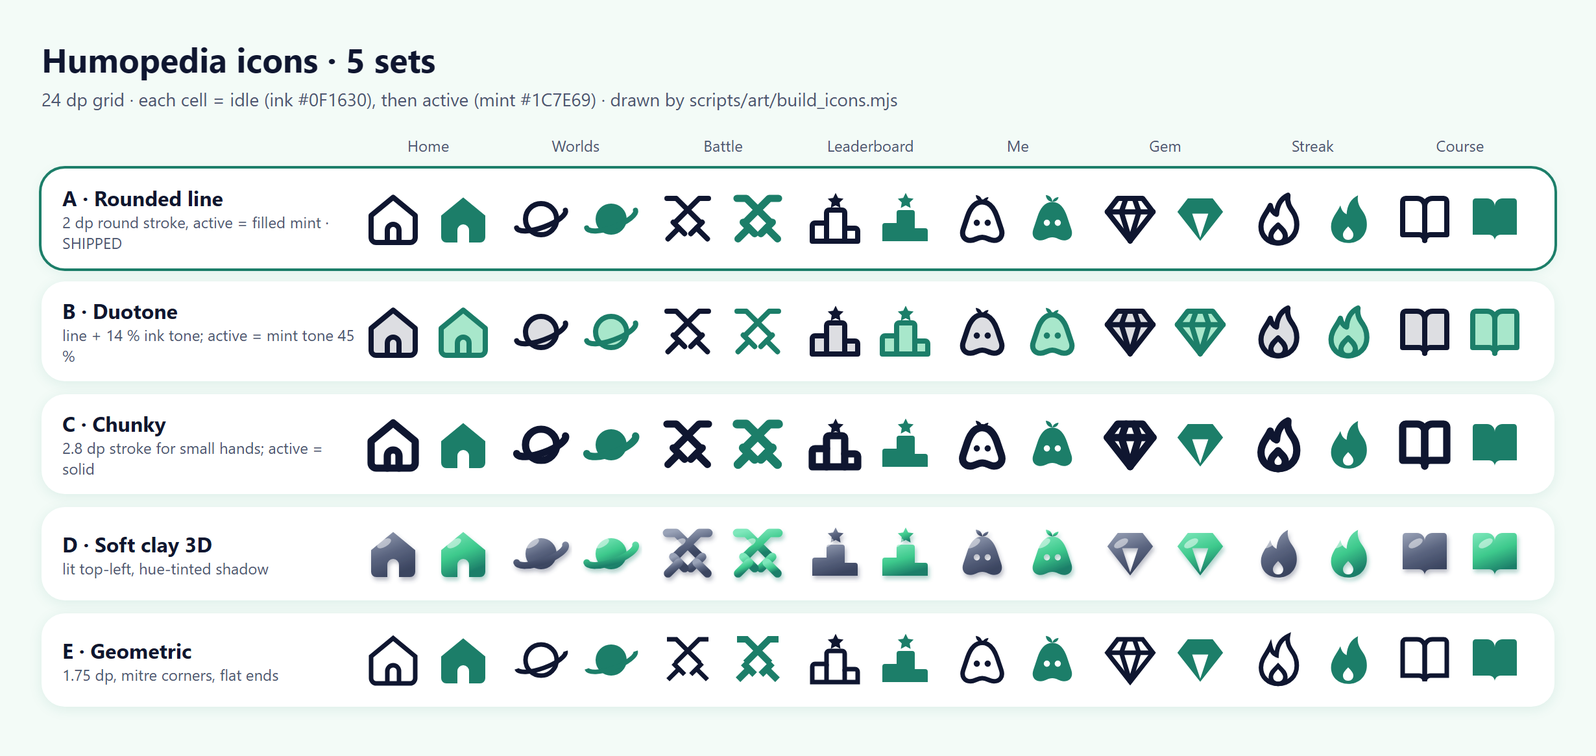
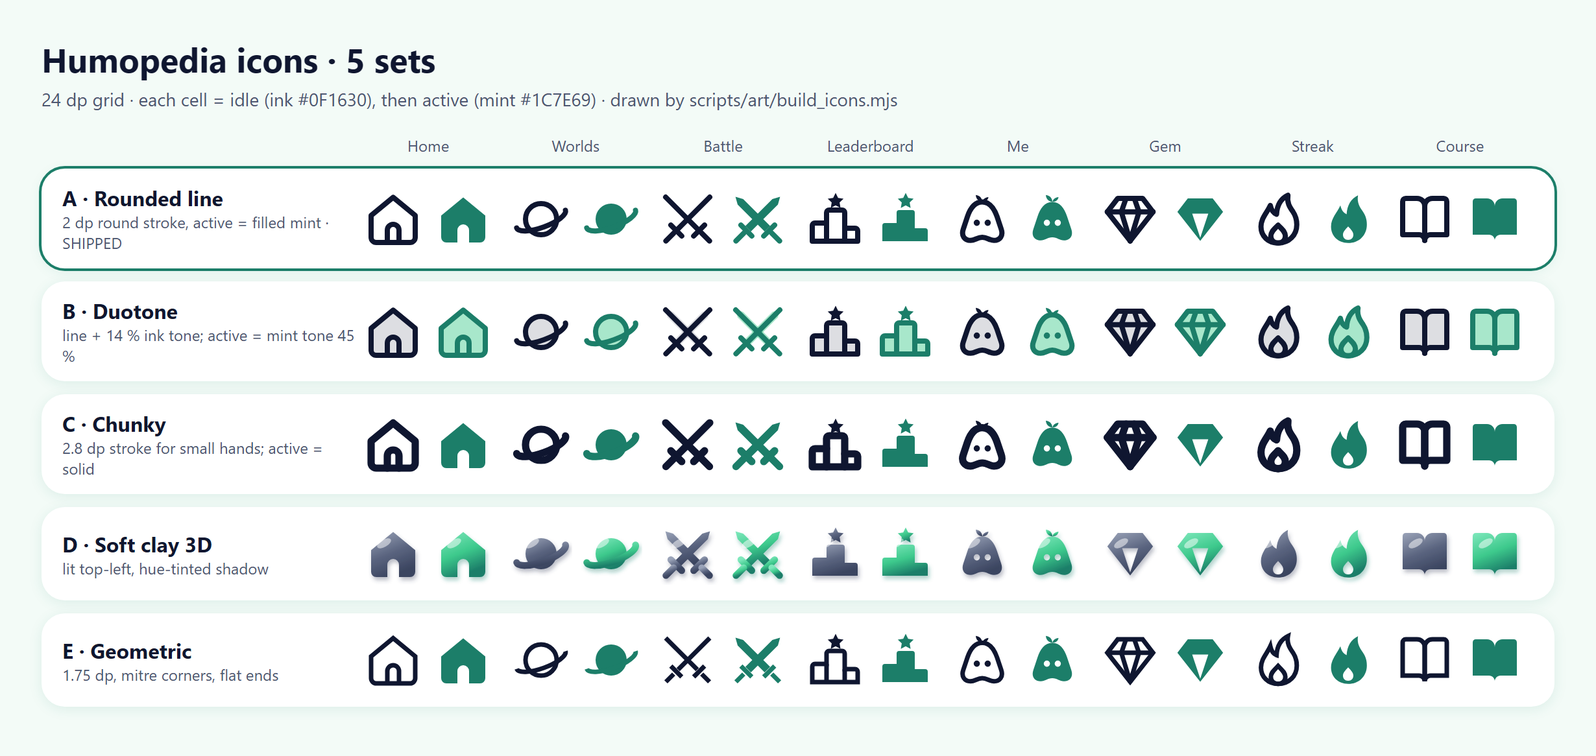
fix(app): path v2 checker round, all 10 fixes (3.0.0-alpha03, code 37)
docs/qa/path-v2-checker.md (6.5/10):
1. Sky leaves the 2,700 dp scrolled box: a screen-sized layer shifted by the scroll.
2. Current island: mint pulse ring (Glass.Primary 55 %, 4 dp) and a 3 dp bob every 2.4 s.
3. Clouds: teal ground shadow, darker underside #B8CCDA, 3 silhouettes, 5-sided faceted puffs.
4. Level sheet veil = deep teal 8 %; the course list has no scrim.
5. The jet's loop is kept on screen and 170 dp off the current stone wherever the child scrolls.
6. Streak icon #D0600E (3.79:1).
7. Battle icon = crossed swords with guards and grips, solid blades when active; board redrawn.
8. Stepping stones darker (#CDB68A on #A88C5E), radius 8.5 dp, 7 dp zig-zag.
9. The path opens with the current stone at 55 % of the space above the tab bar.
10. Launcher Humo 56 dp, lifted 2 dp, inside the 66 dp safe circle (32.9 dp measured); chip "15-kurs".

diff --git a/app/src/main/java/com/mcompany/humo/ui/path/PathScreen.kt b/app/src/main/java/com/mcompany/humo/ui/path/PathScreen.kt
@@ -145,7 +145,7 @@ fun PathScreen(
             val s = state ?: return@LaunchedEffect
             if (placed) return@LaunchedEffect
             snapshotFlow { scroll.maxValue }.first { it > 0 && it != Int.MAX_VALUE }
-            scroll.scrollTo(with(density) { layout.scrollFor(s.current - 1, viewport).dp.roundToPx() })
+            scroll.scrollTo(with(density) { layout.scrollFor(s.current - 1, viewport - padding.calculateBottomPadding().value).dp.roundToPx() })
             placed = true
         }
         Box(Modifier.fillMaxSize().verticalScroll(scroll).semantics { contentDescription = "Path" }) {
@@ -159,16 +159,19 @@ fun PathScreen(
                         }
                     }
                 }
-                Sky(layout, current, scroll, viewport, seconds, motion)
             }
         }
+        // A screen-sized layer (checker fix 1): redrawn every frame, so it must not be the 2,700 dp content box.
+        Sky(layout, current, scroll, viewport, viewport - padding.calculateBottomPadding().value, seconds, motion)
 
         TopBar(state, padding, onCourse = { coursesOpen = !coursesOpen })
 
         val anySheet = sheetLevel != null || coursesOpen
+        // A light deep-teal veil only under the level sheet (8 %, never the grey fog); the course list is a dropdown,
+        // so the world stays clear and only a clear tap-to-close layer sits over it.
         AnimatedVisibility(anySheet, enter = fadeIn(), exit = fadeOut()) {
             Box(
-                Modifier.fillMaxSize().background(Glass.Ink.copy(alpha = 0.16f))
+                Modifier.fillMaxSize().background(if (sheetLevel != null) Color(0xFF0B3D36).copy(alpha = 0.08f) else Color.Transparent)
                     .clickable(remember { MutableInteractionSource() }, null, onClickLabel = "Yopish") { sheetLevel = null; coursesOpen = false },
             )
         }
@@ -280,6 +283,11 @@ private fun Island(level: Level, stone: StoneState, at: Pt, seconds: State<Float
         Modifier
             .offset { with(density) { IntOffset((at.x.dp - w / 2).roundToPx(), (at.y.dp - h * 0.52f).roundToPx()) } }
             .size(w, h)
+            .then(
+                if (stone == StoneState.Current && motion) {
+                    Modifier.graphicsLayer { translationY = sin(seconds.value * 2f * PI.toFloat() / 2.4f) * 3.dp.toPx() }
+                } else Modifier,
+            )
             .pressScale(interaction)
             .clickable(interaction, null, role = Role.Button, onClick = onTap)
             .clearAndSetSemantics { contentDescription = "Level ${level.n}, ${level.title}, $status"; role = Role.Button },
@@ -292,10 +300,10 @@ private fun Island(level: Level, stone: StoneState, at: Pt, seconds: State<Float
                     val p = if (motion) (seconds.value % 1.6f) / 1.6f else 0.35f
                     val rx = size.width * 0.46f * (1f + 0.32f * p)
                     drawOval(
-                        Color.White.copy(alpha = 0.75f * (1f - p)),
+                        Glass.Primary.copy(alpha = 0.55f * (1f - p)),
                         topLeft = Offset(c.x - rx, c.y - rx * 0.55f + size.width * 0.06f),
                         size = androidx.compose.ui.geometry.Size(rx * 2f, rx * 1.1f),
-                        style = Stroke(3.dp.toPx()),
+                        style = Stroke(4.dp.toPx()),
                     )
                 },
             )
@@ -328,7 +336,7 @@ private fun Island(level: Level, stone: StoneState, at: Pt, seconds: State<Float
  * screen; one canvas, redrawn per frame, its cloud shapes built once.
  */
 @Composable
-private fun Sky(layout: PathLayout, current: Int, scroll: ScrollState, viewport: Float, seconds: State<Float>, motion: Boolean) {
+private fun Sky(layout: PathLayout, current: Int, scroll: ScrollState, viewport: Float, visible: Float, seconds: State<Float>, motion: Boolean) {
     val plane = ImageBitmap.imageResource(R.drawable.plane_sr71)
     val clouds = remember(layout, current) { layout.clouds(current) }
     Box(
@@ -336,25 +344,32 @@ private fun Sky(layout: PathLayout, current: Int, scroll: ScrollState, viewport:
             val k = density
             val shapes = clouds.map { LowPoly.cloudShape(it.width * k, it.seed) }
             val shadowTint = ColorFilter.tint(Color(0xFF1F5E57), BlendMode.SrcIn)
+            val cloudShadow = Color(0xFF1F5E57).copy(alpha = 0.10f)
             onDrawBehind {
                 val t = if (motion) seconds.value else 0f
                 val scrollDp = scroll.value / k
-                val fix = layout.plane(current, t)
-                drawPlane(plane, fix, k, shadow = true, tint = shadowTint)
-                clouds.forEachIndexed { i, c ->
-                    // Parallax: a cloud moves a little slower than the ground, by at most 24 dp, so the first row never slides onto the current island.
-                    val lag = ((viewport * 0.5f - (c.at.y - scrollDp)) * (0.06f + 0.04f * c.depth)).coerceIn(-24f, 24f)
-                    val screenY = c.at.y + lag - scrollDp
-                    if (screenY < -120f || screenY > viewport + 120f) return@forEachIndexed
-                    // Parting: a cloud slides away from the middle as it reaches the upper-middle of the screen.
-                    val part = ((viewport * 0.6f - screenY) / (viewport * 0.6f)).coerceIn(0f, 1f)
-                    val away = if (c.at.x < layout.width / 2f) -1f else 1f
-                    val drift = if (motion) sin(t * 2f * PI.toFloat() / (26f + c.seed % 9) + c.seed) * 10f else 0f
-                    val x = (c.at.x + drift + away * 26f * part * part) * k
-                    val y = (c.at.y + lag) * k
-                    translate(x, y) { shapes[i].forEach { (p, col) -> drawPath(p, col) } }
+                val fix = layout.plane(current, t, scrollDp, visible)
+                translate(0f, -scroll.value.toFloat()) {
+                    val planeOnScreen = fix.at.y - scrollDp in 0f..viewport
+                    if (planeOnScreen) drawPlane(plane, fix, k, shadow = true, tint = shadowTint)
+                    clouds.forEachIndexed { i, c ->
+                        // Parallax: a cloud moves a little slower than the ground, by at most 24 dp, so the first row never slides onto the current island.
+                        val lag = ((viewport * 0.5f - (c.at.y - scrollDp)) * (0.06f + 0.04f * c.depth)).coerceIn(-24f, 24f)
+                        val screenY = c.at.y + lag - scrollDp
+                        if (screenY < -160f || screenY > viewport + 120f) return@forEachIndexed
+                        // Parting: a cloud slides away from the middle as it reaches the upper-middle of the screen.
+                        val part = ((viewport * 0.6f - screenY) / (viewport * 0.6f)).coerceIn(0f, 1f)
+                        val away = if (c.at.x < layout.width / 2f) -1f else 1f
+                        val drift = if (motion) sin(t * 2f * PI.toFloat() / (26f + c.seed % 9) + c.seed) * 10f else 0f
+                        val x = (c.at.x + drift + away * 26f * part * part) * k
+                        val y = (c.at.y + lag) * k
+                        // Its shadow on the ground, lower-right (light from the top-left): this is what lifts it off the grass.
+                        val sw = c.width * 0.8f * k
+                        drawOval(cloudShadow, topLeft = Offset(x - sw / 2f + 16f * k, y + 44f * k - sw * 0.09f), size = androidx.compose.ui.geometry.Size(sw, sw * 0.18f))
+                        translate(x, y) { shapes[i].forEach { (p, col) -> drawPath(p, col) } }
+                    }
+                    if (planeOnScreen) drawPlane(plane, fix, k, shadow = false, tint = null)
                 }
-                drawPlane(plane, fix, k, shadow = false, tint = null)
             }
         },
     )
@@ -402,7 +417,7 @@ private fun TopBar(state: PathUiState?, padding: PaddingValues, onCourse: () -> 
             Row(Modifier.padding(start = 14.dp, end = 10.dp).align(Alignment.Center), verticalAlignment = Alignment.CenterVertically) {
                 Icon(TabIcons.CourseFilled, null, tint = Glass.Primary, modifier = Modifier.size(22.dp))
                 Spacer(Modifier.width(8.dp))
-                Text("${course?.number ?: ""}", style = MaterialTheme.typography.titleMedium, fontWeight = FontWeight.Bold, color = Glass.Ink, maxLines = 1)
+                Text(course?.let { "${it.number}-kurs" } ?: "", style = MaterialTheme.typography.titleMedium, fontWeight = FontWeight.Bold, color = Glass.Ink, maxLines = 1)
                 Spacer(Modifier.width(4.dp))
                 Icon(TabIcons.ChevronDown, null, tint = Glass.Ink.copy(alpha = 0.72f), modifier = Modifier.size(18.dp))
             }
@@ -412,7 +427,7 @@ private fun TopBar(state: PathUiState?, padding: PaddingValues, onCourse: () -> 
             Row(Modifier.padding(horizontal = 14.dp).align(Alignment.Center), verticalAlignment = Alignment.CenterVertically) {
                 Count(TabIcons.GemFilled, Color(0xFF1E8FCB), state?.gems ?: 0, "Olmos")
                 Spacer(Modifier.width(16.dp))
-                Count(TabIcons.StreakFilled, Color(0xFFE8711F), state?.streakDays ?: 0, "Ketma-ket kunlar")
+                Count(TabIcons.StreakFilled, Color(0xFFD0600E), state?.streakDays ?: 0, "Ketma-ket kunlar")
             }
         }
     }

diff --git a/app/src/main/java/com/mcompany/humo/ui/glass/TabIcons.kt b/app/src/main/java/com/mcompany/humo/ui/glass/TabIcons.kt
@@ -18,11 +18,11 @@ object TabIcons {
     val Home = icon("home", Stroke("M3.5 10.6 12 3.6l8.5 7v8.4a2 2 0 0 1-2 2h-13a2 2 0 0 1-2-2Z"), Stroke("M9.75 21v-4.75a2.25 2.25 0 0 1 4.5 0V21"))
     val HomeFilled = icon("home-filled", Filled("M3.5 10.6 12 3.6l8.5 7v8.4a2 2 0 0 1-2 2h-13a2 2 0 0 1-2-2Z M9.75 21v-4.75a2.25 2.25 0 0 1 4.5 0V21Z", evenOdd = true))
     val Worlds = icon("worlds", Stroke("M6 12a6 6 0 1 0 12 0a6 6 0 1 0 -12 0"), Stroke("M21.4 8.6A10 3.2-20 0 1 13.1 15A10 3.2-20 0 1 2.6 15.4"))
-    val WorldsFilled = icon("worlds-filled", Filled("M6 12a6 6 0 1 0 12 0a6 6 0 1 0 -12 0", evenOdd = true), Stroke("M21.4 8.6A10 3.2-20 0 1 13.1 15A10 3.2-20 0 1 2.6 15.4"))
-    val Battle = icon("battle", Stroke("M4 4h3.6l9.1 9.1"), Stroke("M20 4h-3.6l-9.1 9.1"), Stroke("M13.2 17.6l4.4-4.4"), Stroke("M10.8 17.6 6.4 13.2"), Stroke("M15.4 15.4 19.6 19.6"), Stroke("M8.6 15.4 4.4 19.6"))
-    val BattleFilled = icon("battle-filled", Stroke("M4 4h3.6l9.1 9.1", width = 2.8f), Stroke("M20 4h-3.6l-9.1 9.1", width = 2.8f), Stroke("M13.2 17.6l4.4-4.4", width = 2.8f), Stroke("M10.8 17.6 6.4 13.2", width = 2.8f), Stroke("M15.4 15.4 19.6 19.6", width = 2.8f), Stroke("M8.6 15.4 4.4 19.6", width = 2.8f))
+    val WorldsFilled = icon("worlds-filled", Filled("M6 12a6 6 0 1 0 12 0a6 6 0 1 0 -12 0", evenOdd = false), Stroke("M21.4 8.6A10 3.2-20 0 1 13.1 15A10 3.2-20 0 1 2.6 15.4"))
+    val Battle = icon("battle", Stroke("M8.3 15.7 20.5 3.5"), Stroke("M15.7 15.7 3.5 3.5"), Stroke("M5.5 14.3l4.2 4.2"), Stroke("M18.5 14.3l-4.2 4.2"), Stroke("M6.6 17.4l-3 3"), Stroke("M17.4 17.4l3 3"))
+    val BattleFilled = icon("battle-filled", Filled("M7.24 14.64 17.64 4.24 20.6 3.4 19.76 6.36 9.36 16.76Z M14.64 16.76 4.24 6.36 3.4 3.4 6.36 4.24 16.76 14.64Z", evenOdd = false), Stroke("M5.5 14.3l4.2 4.2"), Stroke("M18.5 14.3l-4.2 4.2"), Stroke("M6.6 17.4l-3 3"), Stroke("M17.4 17.4l3 3"))
     val Leaderboard = icon("leaderboard", Stroke("M3 20.5v-6a1 1 0 0 1 1-1h4.5v-4a1 1 0 0 1 1-1h5a1 1 0 0 1 1 1v6h4a1 1 0 0 1 1 1v4Z"), Stroke("M8.5 13.5v7"), Stroke("M15.5 15.5v5"), Filled("M12 1.9l.95 1.9 2.1.3-1.52 1.48.36 2.08L12 6.68l-1.88.98.36-2.08L8.95 4.1l2.1-.3Z"))
-    val LeaderboardFilled = icon("leaderboard-filled", Filled("M3 20.5v-6a1 1 0 0 1 1-1h4.5v-4a1 1 0 0 1 1-1h5a1 1 0 0 1 1 1v6h4a1 1 0 0 1 1 1v4Z", evenOdd = true), Filled("M12 1.9l.95 1.9 2.1.3-1.52 1.48.36 2.08L12 6.68l-1.88.98.36-2.08L8.95 4.1l2.1-.3Z"))
+    val LeaderboardFilled = icon("leaderboard-filled", Filled("M3 20.5v-6a1 1 0 0 1 1-1h4.5v-4a1 1 0 0 1 1-1h5a1 1 0 0 1 1 1v6h4a1 1 0 0 1 1 1v4Z", evenOdd = false), Filled("M12 1.9l.95 1.9 2.1.3-1.52 1.48.36 2.08L12 6.68l-1.88.98.36-2.08L8.95 4.1l2.1-.3Z"))
     val Me = icon("me", Stroke("M12 5.4c-3 0-4.6 2.4-5.7 5.6l-1.6 4.8c-.9 2.6.5 4.4 2.8 4.4 1.7 0 2.6-1.2 4.5-1.2s2.8 1.2 4.5 1.2c2.3 0 3.7-1.8 2.8-4.4l-1.6-4.8C16.6 7.8 15 5.4 12 5.4Z"), Filled("M12 5.4c0-1.4-.9-2.5-2.5-2.7.1 1.5 1 2.5 2.5 2.7Z"), Filled("M12 5.4c.3-1.1 1.1-1.8 2.4-1.9-.2 1.1-1 1.8-2.4 1.9Z"), Filled("M8.700000000000001 13.4a1.2 1.2 0 1 0 2.4 0a1.2 1.2 0 1 0 -2.4 0"), Filled("M12.9 13.4a1.2 1.2 0 1 0 2.4 0a1.2 1.2 0 1 0 -2.4 0"))
     val MeFilled = icon("me-filled", Filled("M12 5.4c-3 0-4.6 2.4-5.7 5.6l-1.6 4.8c-.9 2.6.5 4.4 2.8 4.4 1.7 0 2.6-1.2 4.5-1.2s2.8 1.2 4.5 1.2c2.3 0 3.7-1.8 2.8-4.4l-1.6-4.8C16.6 7.8 15 5.4 12 5.4Z M8.700000000000001 13.4a1.2 1.2 0 1 0 2.4 0a1.2 1.2 0 1 0 -2.4 0 M12.9 13.4a1.2 1.2 0 1 0 2.4 0a1.2 1.2 0 1 0 -2.4 0", evenOdd = true), Filled("M12 5.4c0-1.4-.9-2.5-2.5-2.7.1 1.5 1 2.5 2.5 2.7Z"), Filled("M12 5.4c.3-1.1 1.1-1.8 2.4-1.9-.2 1.1-1 1.8-2.4 1.9Z"))
     val Gem = icon("gem", Stroke("M7.2 4h9.6l4 5.2L12 20.4 3.2 9.2Z"), Stroke("M3.2 9.2h17.6"), Stroke("M12 20.4 8.6 9.2 10.4 4"), Stroke("M12 20.4l3.4-11.2L13.6 4"))
@@ -30,7 +30,7 @@ object TabIcons {
     val Streak = icon("streak", Stroke("M12 21.2c-3.9 0-6.6-2.7-6.6-6.3 0-3.3 2.3-5.3 3.6-8.2.4 1.9 1.3 3 2.4 3.4.2-3.5 1.7-6 4.4-7.3-.5 2.8.7 4.6 1.9 6.3 1 1.5 1.5 3 1.5 5C19.2 18.2 16.2 21.2 12 21.2Z"), Stroke("M12 21.2c-1.6 0-2.8-1.1-2.8-2.7 0-1.7 1.3-2.6 2.8-4.2 1.5 1.6 2.8 2.5 2.8 4.2 0 1.6-1.2 2.7-2.8 2.7Z"))
     val StreakFilled = icon("streak-filled", Filled("M12 21.2c-3.9 0-6.6-2.7-6.6-6.3 0-3.3 2.3-5.3 3.6-8.2.4 1.9 1.3 3 2.4 3.4.2-3.5 1.7-6 4.4-7.3-.5 2.8.7 4.6 1.9 6.3 1 1.5 1.5 3 1.5 5C19.2 18.2 16.2 21.2 12 21.2Z M12 20c-1.2 0-2-.8-2-2 0-1.2.9-2 2-3.2 1.1 1.2 2 2 2 3.2 0 1.2-.8 2-2 2Z", evenOdd = true))
     val Course = icon("course", Stroke("M3.5 5.2c0-.7.5-1.2 1.2-1.2H9c1.7 0 3 1.3 3 3v13.2c0-1.2-1-2.2-2.2-2.2H3.5Z"), Stroke("M20.5 5.2c0-.7-.5-1.2-1.2-1.2H15c-1.7 0-3 1.3-3 3v13.2c0-1.2 1-2.2 2.2-2.2h6.3Z"))
-    val CourseFilled = icon("course-filled", Filled("M3.5 5.2c0-.7.5-1.2 1.2-1.2H9c1.7 0 3 1.3 3 3v13.2c0-1.2-1-2.2-2.2-2.2H3.5Z M20.5 5.2c0-.7-.5-1.2-1.2-1.2H15c-1.7 0-3 1.3-3 3v13.2c0-1.2 1-2.2 2.2-2.2h6.3Z", evenOdd = true))
+    val CourseFilled = icon("course-filled", Filled("M3.5 5.2c0-.7.5-1.2 1.2-1.2H9c1.7 0 3 1.3 3 3v13.2c0-1.2-1-2.2-2.2-2.2H3.5Z M20.5 5.2c0-.7-.5-1.2-1.2-1.2H15c-1.7 0-3 1.3-3 3v13.2c0-1.2 1-2.2 2.2-2.2h6.3Z", evenOdd = false))
     val ChevronLeft = icon("chevron-left", Stroke("m15 18-6-6 6-6"))
     val ChevronDown = icon("chevron-down", Stroke("m6 9 6 6 6-6"))
 

diff --git a/app/src/main/java/com/mcompany/humo/ui/path/LowPoly.kt b/app/src/main/java/com/mcompany/humo/ui/path/LowPoly.kt
@@ -113,12 +113,12 @@ internal object LowPoly {
             Offset(c.x + rr * cos(a), c.y + rr * sin(a) * 0.72f)
         }
         val rim = Path().apply { pts.forEachIndexed { i, p -> if (i == 0) moveTo(p.x, p.y + r * 0.28f) else lineTo(p.x, p.y + r * 0.28f) }; close() }
-        drawPath(rim, Color(0xFFBCA57E).copy(alpha = dim))
+        drawPath(rim, Color(0xFFA88C5E).copy(alpha = dim))
         val face = Path().apply { pts.forEachIndexed { i, p -> if (i == 0) moveTo(p.x, p.y) else lineTo(p.x, p.y) }; close() }
-        drawPath(face, Color(0xFFDCCBA4).copy(alpha = dim))
+        drawPath(face, Color(0xFFCDB68A).copy(alpha = dim))
         // The half facing the light, from the top-left.
         val lit = Path().apply { moveTo(pts[2].x, pts[2].y); lineTo(pts[3].x, pts[3].y); lineTo(pts[4].x, pts[4].y); lineTo(pts[5].x, pts[5].y); close() }
-        drawPath(lit, Color(0xFFF6EDD8).copy(alpha = dim))
+        drawPath(lit, Color(0xFFE9DAB6).copy(alpha = dim))
     }
 
     /** A wooden footbridge across the river, along the trail's [angle]: deck planks, two rails. */
@@ -165,31 +165,38 @@ internal object LowPoly {
     }
 
     /**
-     * A low-poly cloud around (0, 0) (CI 40834278210: the first one read as stacked shelves): four rounded puffs, each
-     * one flat polygon with one lit facet on its upper-left, over a short chamfered underside in a cool blue-grey,
-     * narrower than the puffs so no ledge shows. [w] is its width in px; [seed] varies the puffs. Built once; the
-     * screen only moves it.
+     * A low-poly cloud around (0, 0) (checker 2026-10-29: "stickers", not sky): one of three silhouettes (3, 4 or 5
+     * puffs) picked by [seed], each puff a five-sided dome with two lit facets on its upper-left, over a chamfered
+     * blue-grey underside narrower than the puffs. The screen adds its ground shadow. [w] is its width in px.
      */
     fun cloudShape(w: Float, seed: Int): List<Pair<Path, Color>> = buildList {
         val lit = Color(0xFFFFFFFF)
-        val body = Color(0xFFEFF6F9)
-        val shade = Color(0xFFD3E3EC)
+        val soft = Color(0xFFF6FAFC)
+        val body = Color(0xFFE6EFF4)
+        val shade = Color(0xFFB8CCDA)
         add(Path().apply {
             moveTo(-w * 0.44f, -w * 0.02f); lineTo(w * 0.44f, -w * 0.02f); lineTo(w * 0.4f, w * 0.05f)
             lineTo(w * 0.3f, w * 0.085f); lineTo(-w * 0.3f, w * 0.085f); lineTo(-w * 0.4f, w * 0.05f); close()
         } to shade)
-        val puffs = listOf(-0.27f to 0.2f, -0.04f to 0.29f, 0.2f to 0.24f, 0.36f to 0.15f)
+        val puffs = when (seed % 3) {
+            0 -> listOf(-0.24f to 0.24f, 0.06f to 0.32f, 0.32f to 0.2f)
+            1 -> listOf(-0.27f to 0.2f, -0.04f to 0.29f, 0.2f to 0.24f, 0.36f to 0.15f)
+            else -> listOf(-0.36f to 0.14f, -0.18f to 0.22f, 0.04f to 0.3f, 0.24f to 0.22f, 0.4f to 0.13f)
+        }
         puffs.forEachIndexed { k, (dx, r0) ->
             val r = w * r0 * (0.92f + ((seed + k * 5) % 4) * 0.05f)
             val pc = Offset(w * dx, 0f)
-            val n = 7
+            val n = 5
+            // Uneven angles so every dome has its own faceted silhouette.
             val v = (0..n).map { i ->
-                val a = PI.toFloat() + i * PI.toFloat() / n
-                Offset(pc.x + r * cos(a), pc.y + r * 0.9f * sin(a))
+                val a = PI.toFloat() + i * PI.toFloat() / n + if (i in 1 until n) ((seed + k + i) % 3 - 1) * 0.08f else 0f
+                Offset(pc.x + r * cos(a), pc.y + r * 0.95f * sin(a))
             }
             add(Path().apply { moveTo(v[0].x, v[0].y); for (i in 1..n) lineTo(v[i].x, v[i].y); close() } to body)
-            // The facet that faces the light: the upper-left third of the puff.
-            add(Path().apply { moveTo(pc.x - r * 0.12f, pc.y - r * 0.1f); lineTo(v[1].x, v[1].y); lineTo(v[2].x, v[2].y); lineTo(v[3].x, v[3].y); lineTo(v[4].x, v[4].y); close() } to lit)
+            val ridge = Offset(pc.x - r * 0.08f, pc.y - r * 0.18f)
+            // Two facets that face the light (top-left), the brighter one on the left shoulder.
+            add(Path().apply { moveTo(ridge.x, ridge.y); lineTo(v[0].x, v[0].y); lineTo(v[1].x, v[1].y); lineTo(v[2].x, v[2].y); close() } to lit)
+            add(Path().apply { moveTo(ridge.x, ridge.y); lineTo(v[2].x, v[2].y); lineTo(v[3].x, v[3].y); close() } to soft)
         }
     }
 }

diff --git a/app/src/main/java/com/mcompany/humo/ui/path/PathLayout.kt b/app/src/main/java/com/mcompany/humo/ui/path/PathLayout.kt
@@ -61,7 +61,7 @@ class PathLayout(val count: Int, val width: Float) {
     fun stone(i: Int) = Pt(x(i), y(i))
 
     /**
-     * The scroll offset that puts stone [i] at thumb height: 62 % down a [viewport]-tall screen, the easy reach of a
+     * The scroll offset that puts stone [i] at thumb height: 55 % down the [viewport] above the tab bar, the easy reach of a
      * one-handed grip.
      */
     fun scrollFor(i: Int, viewport: Float): Float = (y(i) - viewport * THUMB).coerceIn(0f, (height - viewport).coerceAtLeast(0f))
@@ -101,11 +101,11 @@ class PathLayout(val count: Int, val width: Float) {
                     val dx = p.x - prev.x; val dy = p.y - prev.y
                     val len = hypot(dx, dy).coerceAtLeast(0.001f)
                     val nx = -dy / len; val ny = dx / len
-                    val side = if (seed % 2 == 0) 5.5f else -5.5f
+                    val side = if (seed % 2 == 0) 7f else -7f
                     val at = Pt(p.x + nx * side, p.y + ny * side)
                     val clearOfIsland = (0 until count).none { at.dist(stone(it)) < ISLAND_CLEAR }
                     val clearOfBridge = bridges.none { at.dist(it.at) < BRIDGE_CLEAR }
-                    if (clearOfIsland && clearOfBridge) add(Flagstone(at, 6.5f + (seed * 7 % 5) * 0.5f, seed))
+                    if (clearOfIsland && clearOfBridge) add(Flagstone(at, 8.5f + (seed * 7 % 5) * 0.5f, seed))
                     seed++
                 }
                 prev = p
@@ -199,9 +199,17 @@ class PathLayout(val count: Int, val width: Float) {
      * The SR-71's lazy figure-eight over the clouds, above the current stone (never over the stone the child is about
      * to tap). One loop every [LOOP_S] seconds; heading and bank come from the curve itself.
      */
-    fun plane(current: Int, seconds: Float): PlaneFix {
+    fun plane(current: Int, seconds: Float, scrollDp: Float? = null, viewport: Float? = null): PlaneFix {
         val c = (current - 1).coerceIn(0, count - 1)
-        val cy = if (c >= count - 2) y(c) + gap * 1.55f else y(c) - gap * 1.6f
+        val home = if (c >= count - 2) y(c) + gap * 1.55f else y(c) - gap * 1.6f
+        // Kept on screen (checker fix 5): between the top bar and 170 dp above thumb height, where the current stone opens.
+        val cy = if (scrollDp == null || viewport == null) home else {
+            val lo = scrollDp + 110f
+            val hi = scrollDp + viewport * THUMB - 170f
+            val kept = if (hi >= lo) home.coerceIn(lo, hi) else lo
+            // Never over the stone the child is about to tap, wherever they have scrolled it.
+            if (abs(kept - y(c)) >= 170f) kept else if (y(c) - 170f >= scrollDp + 60f) y(c) - 170f else y(c) + 170f
+        }
         val cx = width / 2f
         val rx = width * 0.3f
         val ry = 54f
@@ -218,7 +226,7 @@ class PathLayout(val count: Int, val width: Float) {
     }
 
     companion object {
-        const val THUMB = 0.62f
+        const val THUMB = 0.55f
         const val STONE_STEP = 15f
         const val ISLAND_CLEAR = 46f
         const val BRIDGE_CLEAR = 26f

diff --git a/app/src/test/java/com/mcompany/humo/ui/PathLayoutTest.kt b/app/src/test/java/com/mcompany/humo/ui/PathLayoutTest.kt
@@ -97,6 +97,20 @@ class PathLayoutTest {
         }
     }
 
+    @Test fun `the jet stays on screen and off the current stone wherever the child scrolls`() {
+        for (viewport in listOf(740f, 300f)) for (current in listOf(1, 3, 9, 14)) {
+            var scroll = 0f
+            while (scroll < layout.height) {
+                for (s in 0 until 44) {
+                    val fix = layout.plane(current, s / 2f, scroll, viewport)
+                    assertTrue("level $current scroll $scroll", fix.at.dist(layout.stone(current - 1)) > 100f)
+                    assertTrue("far off screen at scroll $scroll", fix.at.y - scroll in 0f..viewport + 160f)
+                }
+                scroll += 120f
+            }
+        }
+    }
+
     @Test fun `the map fits a 360 dp phone too`() {
         val small = PathLayout(14, 360f)
         for (i in 0 until 14) assertTrue(small.x(i) - 50f >= 0f && small.x(i) + 50f <= 360f)

diff --git a/docs/qa/path-v2-checker.md b/docs/qa/path-v2-checker.md
@@ -1,0 +1,98 @@
+# Path v2 — fresh checker (CI run 40836363476, 2026-10-29)
+
+Read-only review. Checked: 15 Roborazzi PNGs, 20 walkthrough PNGs + steps.txt, Boss's two before-shots,
+`ui/path/*`, `ui/glass/*`, `res/` launcher, `docs/qa/icons-board.png`. Skills used: apple-design and emil-design-eng.
+
+## Score: **6.5 / 10** (before: about 3/10)
+
+This is a real jump. There is no text on the map. The islands are big and the three states are clear without
+words. The trail and the footbridge look like a road you could walk. The top bar is in. What still pulls it
+down: the clouds look like one sticker pasted many times, not a floating sky. The "tap me" pulse cannot be
+seen. The map stutters (92 % janky frames). The scrim turns the whole world grey, close to the fog Boss hated.
+
+## The first 5 seconds, as a 10-12-year-old
+
+"Ooh, a jet!" The SR-71 is the first thing the eye lands on: it is the only dark, realistic object on a pastel
+map. Next comes the gold block with the flag, and they know "that's me". Then the clouds: they look like white
+paper cut-outs lying on the grass, not a sky the jet flies through. "15 ▾" means nothing to them yet. The gem
+and fire counts read well. The map is calm and clear, but it does not move enough to feel alive. On a real
+phone the stutter would make it feel cheap.
+
+## Founder notes, one by one
+
+| Note | Verdict | Evidence |
+|---|---|---|
+| No text on the map | ✅ | `PathScreen.kt:285`: names only in TalkBack; no text in any shot |
+| Big, clean, tappable nodes | ✅ | 88 dp (current 100 dp) × 0.86 = 76-86 dp tap boxes (`PathScreen.kt:113-114, 274-275`) |
+| Walkable path | ✅ / ⚠ | 30 dp dirt trail, pebbles, bridge at each unit end. Pebbles vs dirt = **1.08:1**, so they read as gravel noise, not stepping stones |
+| Low-poly clouds, not fog | ⚠ | No blur ✅. But one 4-puff template (`LowPoly.kt:181`), body vs page **1.04:1**, no cast shadow, so they read as flat stickers |
+| SR-71 really flies | ⚠ | Figure-eight with bank and shadow ✅. In landscape the jet is off-screen and only its **shadow** shows (`08-home-path-landscape.png`) |
+| Top bar: course, gems, streak | ✅ / ⚠ | Glass, fixed 48 dp ✅. Streak icon **2.98:1** < 3:1. "15" has no meaning for a child |
+| Icons, 5 sets | ✅ / ⚠ | Board has 5 sets. Shipped set A: Battle "active" is only a thicker X (not filled), and it reads as "close" |
+| Launcher icon | ✅ / ⚠ | Clean sprout Humo, no old hair ✅. Humo box is 50 dp of 108 dp (`build_launcher_icon.mjs:17`), so it looks small on the home screen |
+
+## Contrast (computed from the hex in the code; pane ≈ #F8FCFA)
+
+| Pair | Ratio | Rule | |
+|---|---|---|---|
+| Ink #0F1630 on pane (counts) | 17.2 | 4.5 | ✅ |
+| White on Primary #1C7E69 (Davom etish) | 4.96 | 4.5 | ✅ |
+| Muted #4D5670 on pane / on 16 % scrim | 7.05 / 5.03 | 4.5 | ✅ |
+| Gem #1E8FCB on pane | 3.47 | 3 | ✅ |
+| **Streak #E8711F on pane** | **2.98** | 3 | ❌ |
+| Lock #5D6880 on locked top #C6CFDA | 3.55 | 3 | ✅ |
+| Tick #1C7E69 on white badge | 4.96 | 3 | ✅ |
+| **Pulse ring white on page #F3FBF7** | **1.05** | 3 | ❌ invisible |
+| Cloud body / underside vs page | 1.04 / 1.25 | (art) | ⚠ dissolves into the page |
+| Flagstone face vs dirt | 1.08 | (art) | ⚠ |
+| Page under the scrim vs page | 1.40 | — | ⚠ grey cast over the whole map |
+
+## Top 10 fixes, ranked
+
+1. **Stop the jank: take the Sky out of the scrolled content.** `PathScreen.kt:162` puts `Sky` inside a box that is
+   `layout.height` tall (≈2,700 dp, ≈8,000 px at 3×). The box redraws every frame because `seconds` is read in
+   draw (`:340`). The walk measured **96/104 janky frames, p50 150 ms**. Change: move `Sky(...)` out of the
+   `verticalScroll` Box. Make it a sibling at `Modifier.fillMaxSize()` (viewport-sized), and in `onDrawBehind`
+   wrap the drawing in `translate(0f, -scroll.value.toFloat())`. Culling at `:348` already skips the clouds you
+   cannot see. Then measure again with gfxinfo on the A05s.
+2. **Make the "tap me" pulse visible.** `PathScreen.kt:295`: `Color.White.copy(alpha = 0.75f * (1f - p))` is
+   1.05:1 on the page. Change it to `Glass.Primary.copy(alpha = 0.55f * (1f - p))` (4.71:1 at full) and the
+   stroke at `:298` to `4.dp`. Add a slow bob of 3 dp on the current island (`graphicsLayer { translationY = sin(t*2π/2.4)*3.dp }`).
+3. **Clouds that float, not stickers.** (a) `PathScreen.kt:355`: before each cloud, draw a cast shadow on the ground.
+   Use `drawOval(Color(0xFF1F5E57).copy(alpha = 0.10f), …)` offset +16 dp right and +44 dp down, 0.8× the cloud
+   width, and let it move with the cloud's drift and parallax. (b) `LowPoly.kt:176`: underside `0xFFD3E3EC` →
+   `0xFFB8CCDA`. (c) `LowPoly.kt:181`: pick the puff list from `seed % 3` (3 silhouettes: 3, 4 and 5 puffs with
+   different heights) so no two neighbours match. (d) `LowPoly.kt:185`: `n = 7` → `n = 5` with a second facet,
+   for real low-poly angles instead of cartoon semicircles.
+4. **No grey scrim over the world.** `PathScreen.kt:171`: `Glass.Ink.copy(alpha = 0.16f)` greys the whole map
+   (the "fog" again, see `09-locked-sheet.png`, `10-course-list.png`). Change it to
+   `Color(0xFF0B3D36).copy(alpha = 0.08f)` for the level sheet. Use no scrim for the course list: it is a
+   dropdown and should not block. Keep only the transparent tap-to-close layer.
+5. **Jet never shows a lone shadow.** `PathLayout.kt:204`: `cy` ignores the viewport, so in landscape (390 dp
+   tall) the loop sits behind the top bar. Pass `viewport` and `scrollDp` into `plane(...)` and clamp
+   `cy` to `[scrollDp + 120, scrollDp + viewport*THUMB - 140]`. At `PathScreen.kt:343`, skip the shadow when
+   the plane centre is outside the viewport.
+6. **Streak icon to 3:1.** `PathScreen.kt:415`: `Color(0xFFE8711F)` → `Color(0xFFD0600E)` (3.79:1 on the pane).
+7. **Battle icon: real crossed swords with a filled active state.** `TabIcons.kt:23-24`: the idle X reads as
+   "close", and `BattleFilled` is the same strokes at 2.8 dp. Add guards (a short cross-bar per blade at
+   ~1/3 from the hilt) and make the active version `Filled` blade shapes, like Home and Leaderboard. Edit
+   `scripts/art/build_icons.mjs` (the file is generated) and redraw `docs/qa/icons-board.png`.
+8. **Walkable stones you can see.** `LowPoly.kt:118`: face `0xFFDCCBA4` → `0xFFCDB68A`, and rim (`:116`)
+   `0xFFBCA57E` → `0xFFA88C5E`, so each stone stands off the dirt. `PathLayout.kt:108`: radius `6.5f + …` →
+   `8.5f + …`. At `PathLayout.kt:104`, a 5.5 dp zig-zag → 7 dp, so it reads as left-right footsteps.
+9. **Done island hidden behind the nav bar on short phones.** In walk `01-home.png` (640 dp tall), the done stone
+   sits under the tab bar. In `PathScreen.kt:148`, pass `viewport - padding.calculateBottomPadding().value` to
+   `scrollFor`, and at `PathLayout.kt:221` set `THUMB = 0.55f`. Then the stone behind (proof of progress) and
+   the current one both show above the bar.
+10. **Launcher Humo bigger.** `scripts/art/build_launcher_icon.mjs:17`: `HUMO_DP = 50` → `56`. Re-run it, then
+    check that the bell stays inside the 66 dp safe circle on an overlay before you ship. Also make the course
+    chip say something to a child: `PathScreen.kt:405`, `"${course?.number}"` → `"${course?.number}-kurs"`
+    (Boss's brief said "Course 15 ▾"; the top bar is not the map, so a word is allowed there).
+
+## Not checked / caveats
+- The jank numbers come from the CI emulator. Its GPU p90 of 4,950 ms suggests software rendering, so measure
+  again on the A05s. Fix 1 is still right: an 8,000 px layer redrawn every frame is costly on any GPU.
+- I did not compare against the 77 refs in `D:\Humopedia\design\`. The lesson screen (`03b`) and the
+  dark-mode shot were only glanced at: dark is the same as light by design (`Glass.kt:67`).
+- Optional, not ranked: put a tiny Humo on the current island (the Duolingo-avatar move). That makes "you are
+  here" obvious even without the pulse.
